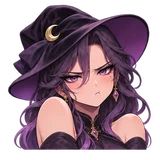
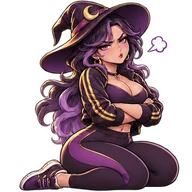
Перерисовать реакции ведьмы и обновить цену комплекта

diff --git a/community_bot/web/index.html b/community_bot/web/index.html
@@ -1,4 +1,4 @@
-<!doctype html><html lang="ru"><head><meta charset="UTF-8"><meta name="viewport" content="width=device-width,initial-scale=1,viewport-fit=cover"><meta name="theme-color" content="#111013"><title>Нора — свои рядом</title><link rel="preload" href="/fonts/Monocraft.ttf" as="font" type="font/ttf" crossorigin><link rel="stylesheet" href="/style.css?v=game-lobbies"><script src="https://telegram.org/js/telegram-web-app.js"></script><script src="/intro.js" defer></script><script src="/app.js?v=durak-night" defer></script><script src="/home.js?v=story-autoplay" defer></script><script src="/commands.js?v=speech-guide" defer></script><script src="/shop.js?v=durak-1" defer></script><script src="/cabinet.js?v=durak-1" defer></script><script defer src="/pet.js?v=pet-voice-levels"></script><script src="/admin.js" defer></script><script src="/interactive.js?v=game-lobbies" defer></script><script src="/nora-game.js?v=burrows" defer></script><script src="/sea.js?v=game-lobbies" defer></script><script src="/people.js" defer></script><script src="/nora-records.js?v=burrows" defer></script><script src="/community.js?v=game-lobbies" defer></script><script src="/avatars.js" defer></script><script src="/events.js?v=event-attendance" defer></script></head><body class="intro-playing"><section id="nora-intro" class="nora-intro" aria-label="Нора открывается"><span class="sr-only">Открываем Нору</span></section><main id="app" aria-live="polite" inert aria-hidden="true"><div class="loading"><img src="/intro/nora-logo-ru.jpg" alt="Нора" width="240" height="100"><span>Собираем твою Нору…</span></div></main><nav id="nav" aria-label="Разделы" inert aria-hidden="true"></nav><div id="toast" role="status"></div><dialog id="sheet"><div id="sheet-content"></div><button id="dismiss" class="secondary">Закрыть</button></dialog><button id="scroll-jump" type="button" aria-label="В самый низ"><svg class="jump-down" viewBox="0 0 24 24" fill="none" stroke="currentColor" stroke-width="2" stroke-linecap="round" stroke-linejoin="round" aria-hidden="true"><path d="M12 4v16M6 14l6 6 6-6"/></svg><svg class="jump-up" viewBox="0 0 24 24" fill="none" stroke="currentColor" stroke-width="2" stroke-linecap="round" stroke-linejoin="round" aria-hidden="true"><path d="M12 20V4M6 10l6-6 6 6"/></svg></button><dialog id="home-story-viewer" aria-label="История обновления Норы">
+<!doctype html><html lang="ru"><head><meta charset="UTF-8"><meta name="viewport" content="width=device-width,initial-scale=1,viewport-fit=cover"><meta name="theme-color" content="#111013"><title>Нора — свои рядом</title><link rel="preload" href="/fonts/Monocraft.ttf" as="font" type="font/ttf" crossorigin><link rel="stylesheet" href="/style.css?v=game-lobbies"><script src="https://telegram.org/js/telegram-web-app.js"></script><script src="/intro.js" defer></script><script src="/app.js?v=durak-night-witch" defer></script><script src="/home.js?v=story-autoplay" defer></script><script src="/commands.js?v=speech-guide" defer></script><script src="/shop.js?v=durak-1" defer></script><script src="/cabinet.js?v=durak-1" defer></script><script defer src="/pet.js?v=pet-voice-levels"></script><script src="/admin.js" defer></script><script src="/interactive.js?v=game-lobbies" defer></script><script src="/nora-game.js?v=burrows" defer></script><script src="/sea.js?v=game-lobbies" defer></script><script src="/people.js" defer></script><script src="/nora-records.js?v=burrows" defer></script><script src="/community.js?v=game-lobbies" defer></script><script src="/avatars.js" defer></script><script src="/events.js?v=event-attendance" defer></script></head><body class="intro-playing"><section id="nora-intro" class="nora-intro" aria-label="Нора открывается"><span class="sr-only">Открываем Нору</span></section><main id="app" aria-live="polite" inert aria-hidden="true"><div class="loading"><img src="/intro/nora-logo-ru.jpg" alt="Нора" width="240" height="100"><span>Собираем твою Нору…</span></div></main><nav id="nav" aria-label="Разделы" inert aria-hidden="true"></nav><div id="toast" role="status"></div><dialog id="sheet"><div id="sheet-content"></div><button id="dismiss" class="secondary">Закрыть</button></dialog><button id="scroll-jump" type="button" aria-label="В самый низ"><svg class="jump-down" viewBox="0 0 24 24" fill="none" stroke="currentColor" stroke-width="2" stroke-linecap="round" stroke-linejoin="round" aria-hidden="true"><path d="M12 4v16M6 14l6 6 6-6"/></svg><svg class="jump-up" viewBox="0 0 24 24" fill="none" stroke="currentColor" stroke-width="2" stroke-linecap="round" stroke-linejoin="round" aria-hidden="true"><path d="M12 20V4M6 10l6-6 6 6"/></svg></button><dialog id="home-story-viewer" aria-label="История обновления Норы">
   <div class="home-story-stage">
     <video tabindex="0" playsinline disablepictureinpicture disableremoteplayback preload="auto" poster="/intro/nora-update-20261120-start.jpg" aria-label="Ролик об обновлении Норы"></video>
     <div class="home-story-toolbar">

diff --git a/community_bot/web/durak.js b/community_bot/web/durak.js
@@ -79,7 +79,7 @@ function quickScreen(){
 const itemParts=[
   ['felt','Фон стола','night-felt.webp'],
   ['back','Рубашка карт','night-back.webp'],
-  ['witch','Эмоции ведьмы','witch-1.webp'],
+  ['witch','Эмоции ведьмы','witch-1.webp?v=2'],
 ];
 function itemsScreen(){
   const items=list?.items;
@@ -121,13 +121,13 @@ async function saveItems(fields){
   }
 }
 function confirmPack(friend){
-  const price=chips(list.items.price);
+  const price=list.items.price;
   sheet(`<h2>${friend?'Подарить комплект':'Купить комплект'}</h2>
-    <p>«Ночной комплект» ${friend?'для '+esc(friend.name)+' ':''}за <b>${price}</b></p>
+    <p>«Ночной комплект» ${friend?'для '+esc(friend.name)+' ':''}за <b>${chips(price)}</b></p>
     <button type="button" class="primary" id="dk-confirm-pack">Подтвердить</button>`);
   document.getElementById('dk-confirm-pack').onclick=()=>{
     document.getElementById('sheet').close();
-    saveItems({action:'buy',...(friend?{recipient:friend.id}:{})});
+    saveItems({action:'buy',price,...(friend?{recipient:friend.id}:{})});
   };
 }
 function group(name,title){
@@ -198,7 +198,7 @@ const emotions = ['Привет рукой','Безразличие','Громк
   'Хитрая улыбка','Злость','Злорадство','Фейспалм','Задумчивость'];
 const witchEmotions=['Подмигнула','Хохочет','Удивилась','Надулась','Ухмыляется','Воздушный поцелуй',
   'Смутилась','Разозлилась','Аплодирует'];
-const reactionImage = id => '/durak-cards/'+(id>25?'witch-'+(id-25):'reaction-'+id)+'.webp';
+const reactionImage = id => '/durak-cards/'+(id>25?'witch-'+(id-25)+'.webp?v=2':'reaction-'+id+'.webp');
 const reducedMotion = () => matchMedia('(prefers-reduced-motion: reduce)').matches;
 const randomNonce = () => Array.from(crypto.getRandomValues(new Uint8Array(16)), n=>n.toString(16).padStart(2,'0')).join('');
 const storedPreference = name => {try{return localStorage.getItem(key+name)}catch{return null}};

diff --git a/community_bot/web/app.js b/community_bot/web/app.js
@@ -151,7 +151,7 @@ function mountDurak() {
     css.id = 'durak-style'; css.rel = 'stylesheet'; css.href = '/durak.css?v=night';
     document.head.append(css);
   }
-  durakModule ??= import('/durak.js?v=night').catch(() => {
+  durakModule ??= import('/durak.js?v=night-witch').catch(() => {
     durakModule = null;
     if (tab === 'durak' && root.isConnected) {
       const retry = document.createElement('button');

diff --git a/tests/test_durak_rooms.py b/tests/test_durak_rooms.py
@@ -55,12 +55,15 @@ async def friends(db, a, b):
 async def test_night_pack_gift_and_duplicate_charge(db):
     await friends(db, 1, 2)
     with pytest.raises(ValueError, match="друга"):
-        await items.change(db, 1, {"action": "buy", "recipient": 3})
-    gift = {"action": "buy", "recipient": 2}
+        await items.change(db, 1, {"action": "buy", "recipient": 3, "price": 149})
+    gift = {"action": "buy", "recipient": 2, "price": 149}
+    with pytest.raises(ValueError, match="Цена комплекта изменилась"):
+        await items.change(db, 1, {**gift, "price": 90})
+    assert await balance(db, 1) == 1000
     attempts = await asyncio.gather(items.change(db, 1, gift), items.change(db, 1, gift),
                                     return_exceptions=True)
     assert sum(isinstance(result, ValueError) for result in attempts) == 1
-    assert await balance(db, 1) == 910 and await balance(db, 2) == 1000
+    assert await balance(db, 1) == 851 and await balance(db, 2) == 1000
     assert len(await db.fetchall("SELECT id FROM notify_inbox WHERE user_id=2")) == 1
     state = (await api.menu(db, 2))["items"]
     assert state["owned"] and not any(state["equipped"].values())
@@ -69,7 +72,7 @@ async def test_night_pack_gift_and_duplicate_charge(db):
 
 
 async def test_host_table_cosmetics_shared_and_fixed_at_deal(db):
-    await items.change(db, 1, {"action": "buy"})
+    await items.change(db, 1, {"action": "buy", "price": 149})
     await items.change(db, 1, {"action": "equip", "part": "felt", "enabled": False})
     rid = await run(db, 1, "create", config={})
     await run(db, 2, "join", room=rid)

diff --git a/community_bot/durak_items.py b/community_bot/durak_items.py
@@ -7,7 +7,7 @@ from community_bot.database import Database
 from community_bot.friends_api import accepted_in_connection, inbox_in_connection
 from community_bot.sea_api import _one as one
 
-PRICE = 90
+PRICE = 149
 PARTS = {"felt": 1, "back": 2, "witch": 4}
 ALL = sum(PARTS.values())
 
@@ -41,6 +41,8 @@ async def change(db, uid, body):
             await conn.execute("UPDATE bot_state SET value=? WHERE key=?",
                                (mask | bit if enabled else mask & ~bit, key(uid)))
         elif action == "buy":
+            if type(body.get("price")) is not int or body["price"] != PRICE:
+                raise ValueError("Цена комплекта изменилась. Открой «Предметы» заново")
             target = body.get("recipient", uid)
             if (type(target) is not int or not 0 < target < 2**63
                     or (target != uid and not await accepted_in_connection(conn, uid, target))):

diff --git a/docs/AI_HANDOFF.md b/docs/AI_HANDOFF.md
@@ -1,5 +1,11 @@
 # AI_HANDOFF — NORA
 
+## Реакции «Ночного комплекта» — 20 ноября 2026
+
+- Ветка `chatgpt/durak-witch` от production `a7f0709` в отдельном worktree. Перерисованы 9 реакций с взрослой ведьмой в кружевных и спортивных образах и слитном купальнике. Идентификаторы предметов и уже выданные покупки сохранены.
+- Покупка и подарок теперь стоят 149 печенек. Сервер отклоняет устаревшее подтверждение цены без списания. Кэш модуля и стикеров обновлён. Завершение автодеплоя и Telegram WebView остаются для проверки владельцем.
+- Chromium проверил покупку и подарок за 149 печенек, загрузку всех девяти стикеров и показ новой реакции второму игроку.
+
 ## Ночной комплект и стол «Дурака» — 20 ноября 2026
 
 - `chatgpt/durak-night` от production `cc32a0a` в отдельном worktree. Основная копия `chatgpt/morning-eight` содержит независимые локальные правки.
